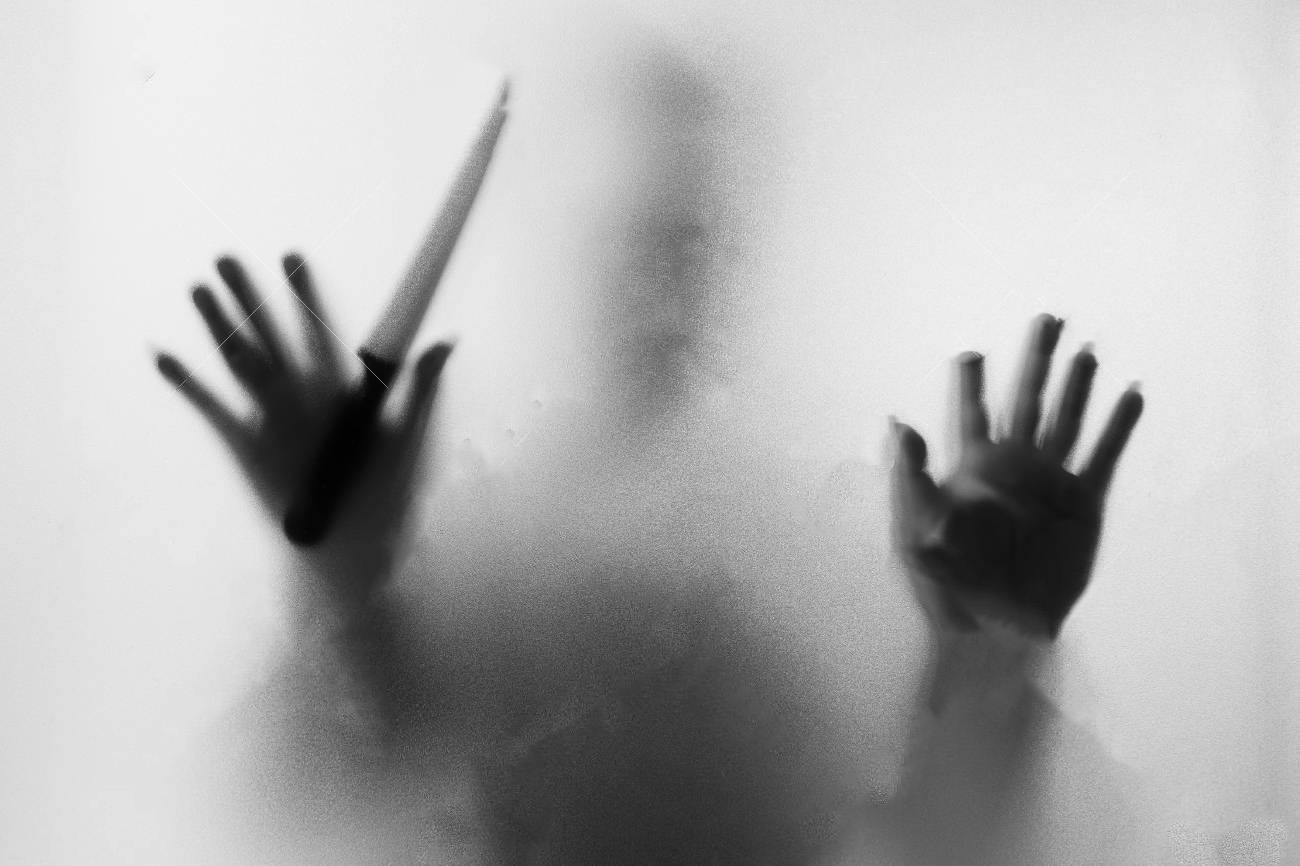
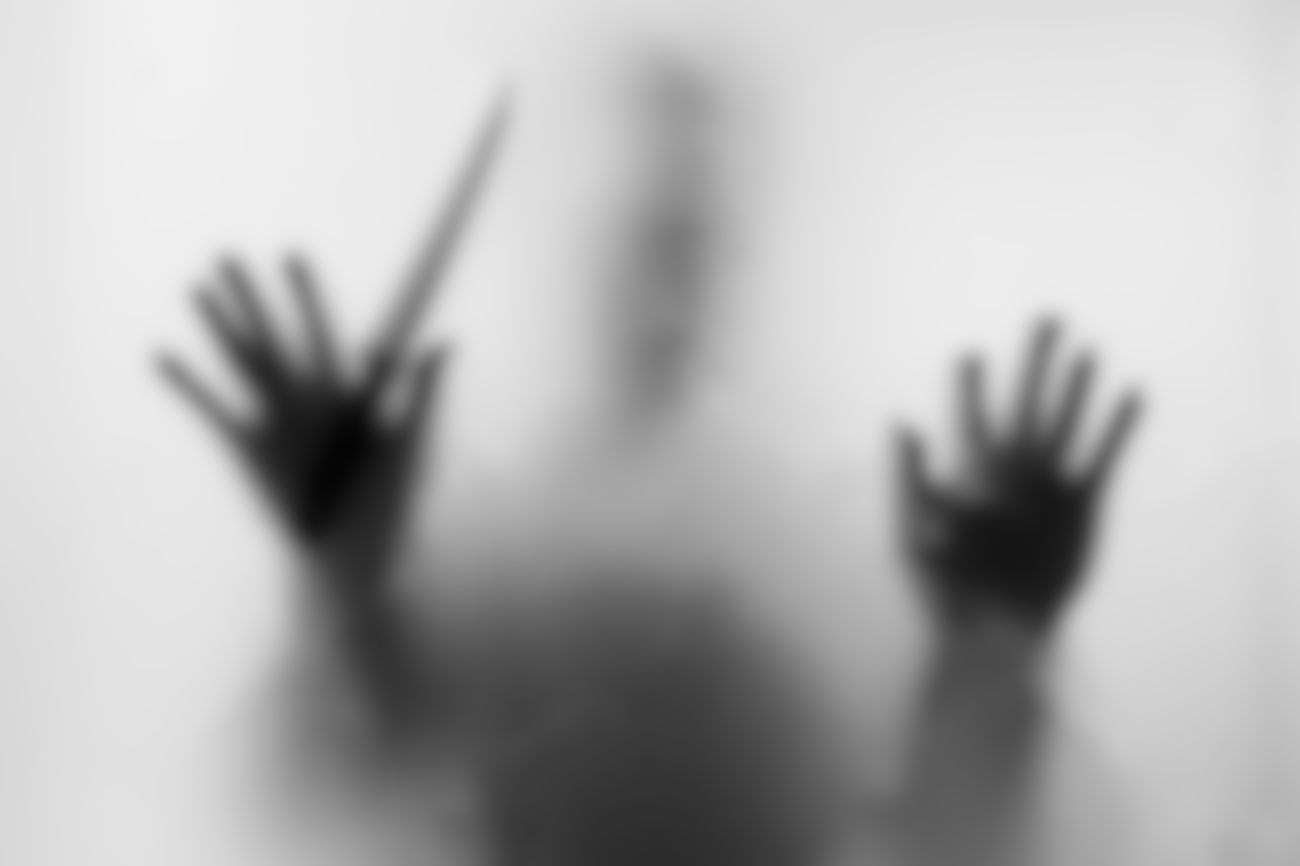
use blurred image instead of filter

diff --git a/src/views/Nav/Nav.module.css b/src/views/Nav/Nav.module.css
@@ -1,28 +1,17 @@
-.nav_container {
-  height: 100vh;
-  width: 100vw;
+.nav {
   position: absolute;
   top: 0px;
   left: 0px;
-  z-index: 1;
-}
-.nav {
   width: 100vw;
   height: 100vh;
   display: flex;
   flex-direction: row;
-  justify-items: center;
+  align-items: center;
   justify-content: center;
-  background-color: rgb(255, 255, 255);
-}
-.nav_bg_image {
-  height: 100vh;
-  width: 100vw;
-  position: absolute;
-  top: 0px;
-  left: 0px;
-  z-index: 2;
-  opacity: 0.7;
+  background: url('../../assets/images/nav_background.jpg');
+  background-size: cover;
+  background-repeat: no-repeat;
+  background-position: center;
 }
 .nav_ul {
   margin: 0px;

diff --git a/src/views/Nav/Nav.js b/src/views/Nav/Nav.js
@@ -1,0 +1,27 @@
+import React from 'react';
+
+import styles from './Nav.module.css';
+
+const Nav = () => {
+  const pages = [
+    'Home',
+    'About',
+    'Events',
+    'Pronites',
+    'Accomodation',
+    'Login/Register',
+    'Team',
+    'Sponsors',
+    'Contact Us',
+  ];
+
+  const navList = pages.map(page => <li className={styles.nav_li}>{page}</li>);
+
+  return (
+    <nav className={styles.nav}>
+      <ul className={styles.nav_ul}>{navList}</ul>
+    </nav>
+  );
+};
+
+export default Nav;

diff --git a/src/App.js b/src/App.js
@@ -1,7 +1,7 @@
 import React from 'react';
 import styles from './App.module.css';
 
-import Nav from './views/nav/Nav';
+import Nav from './views/Nav/Nav';
 
 function App() {
   return (
